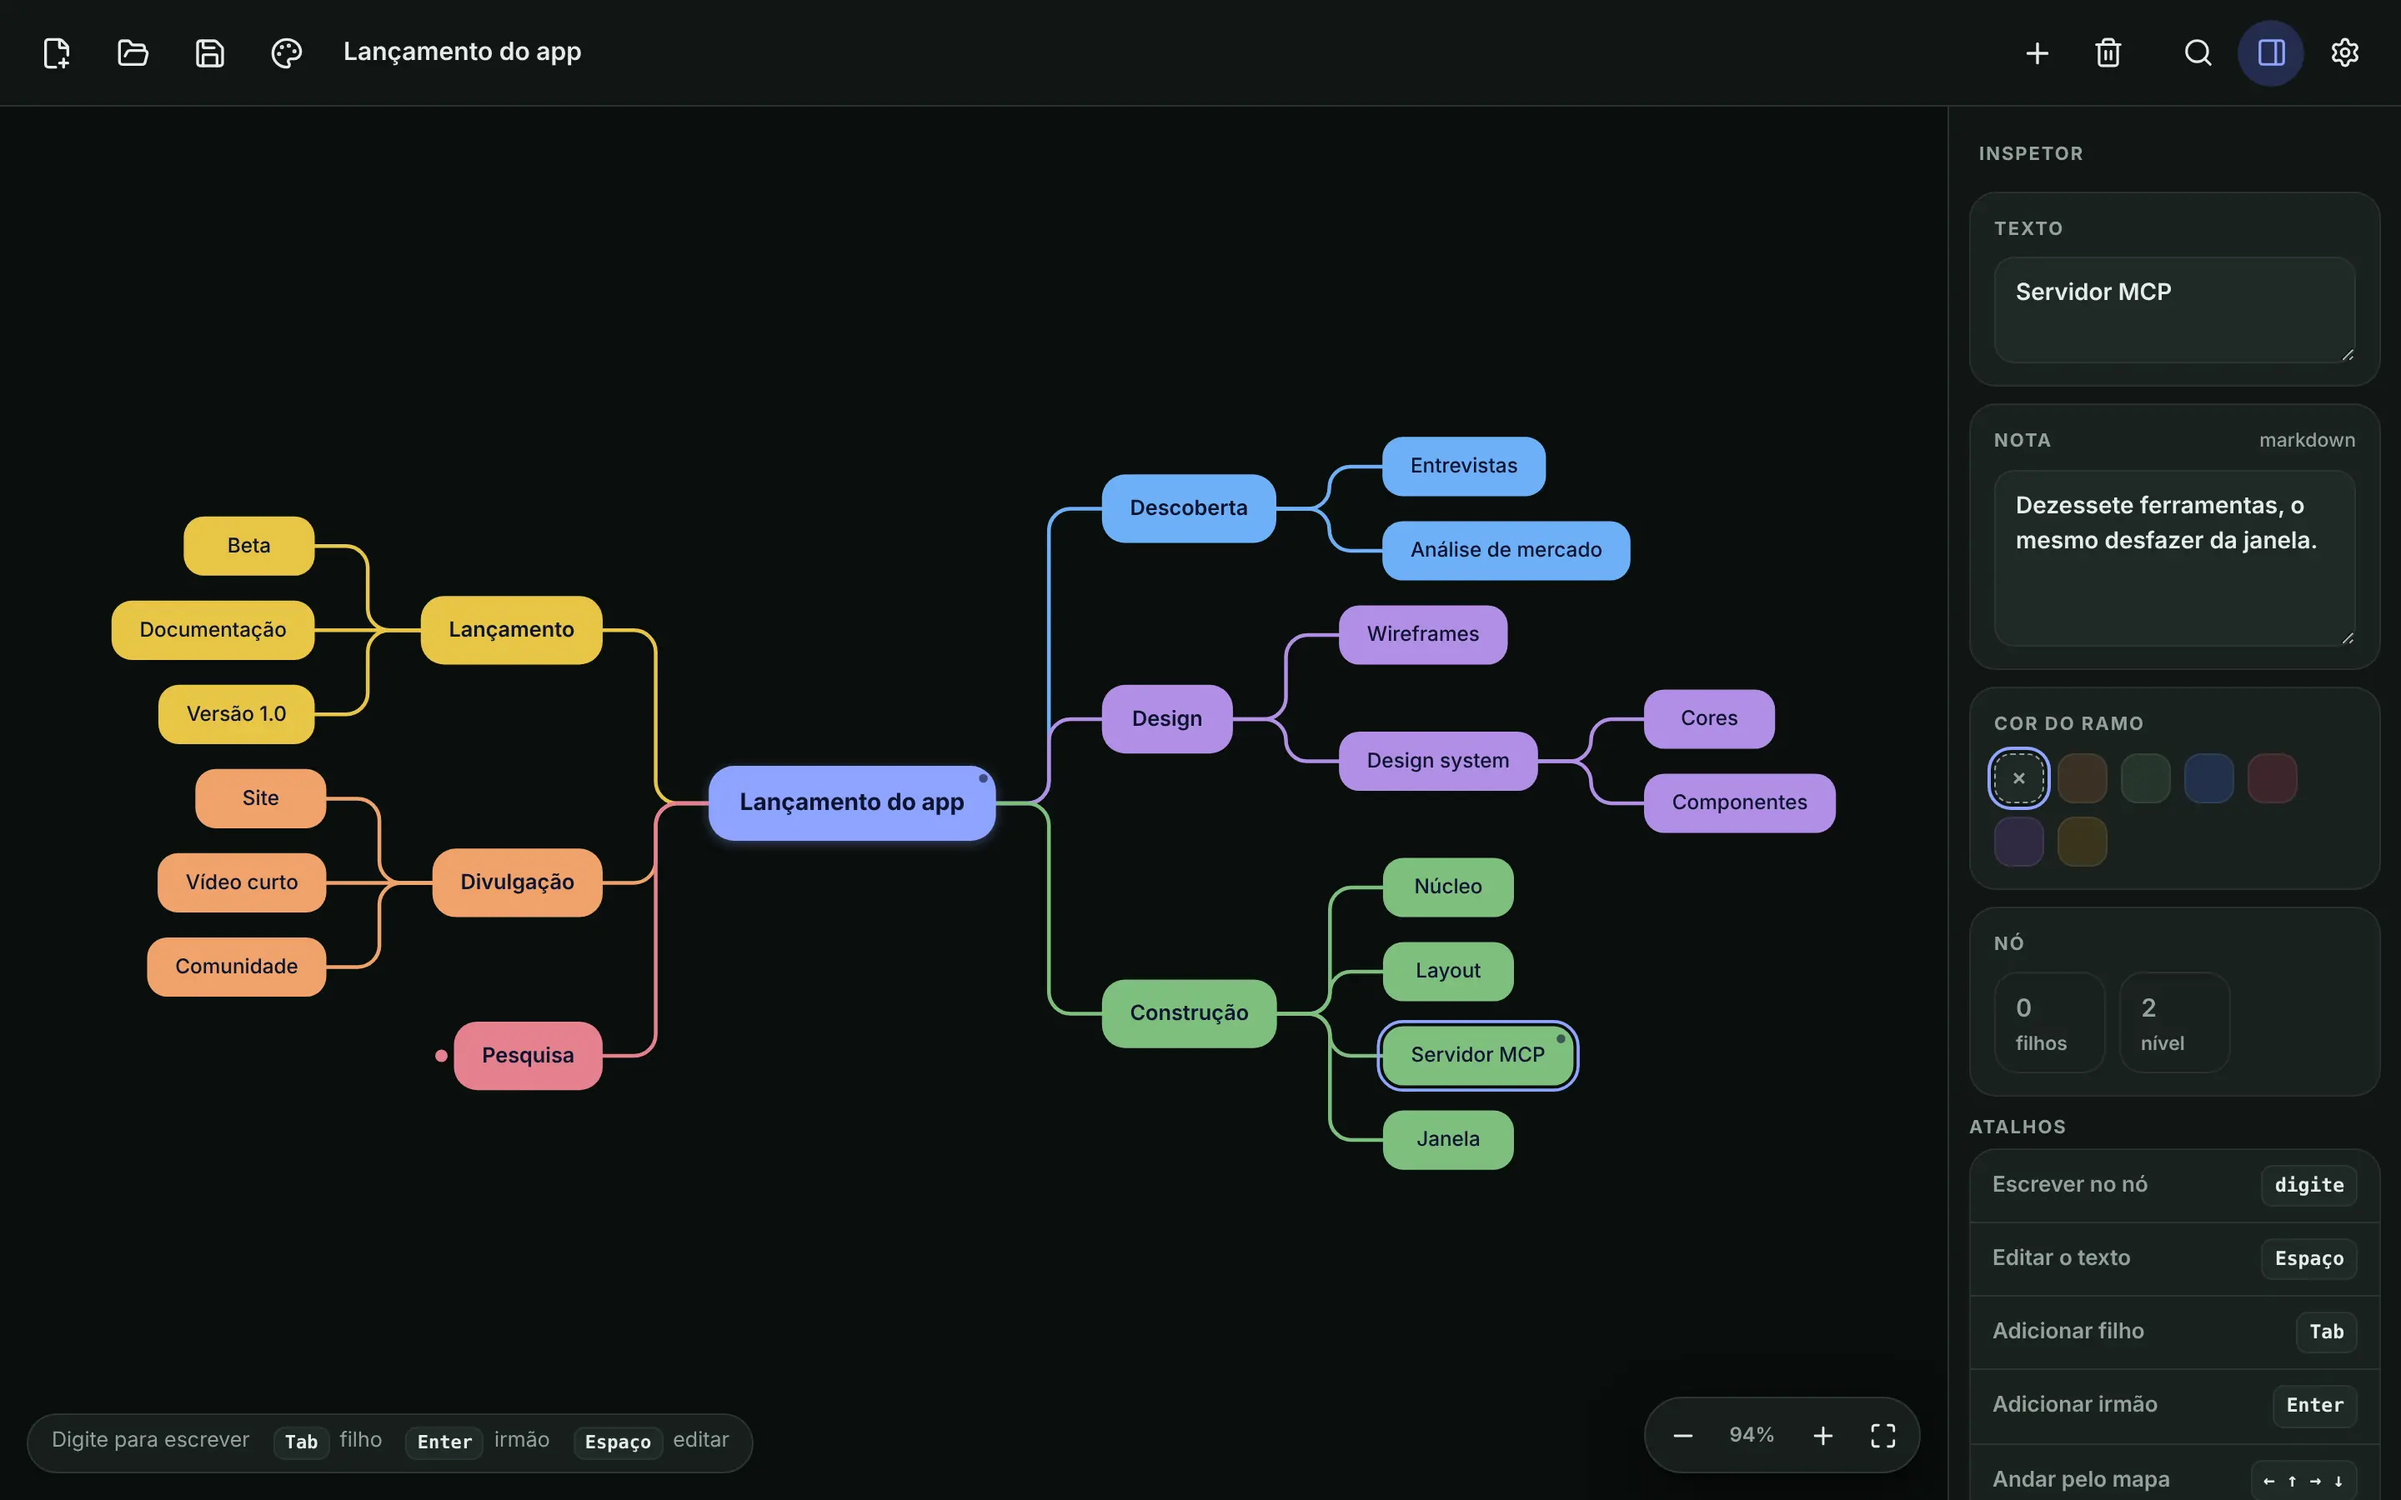
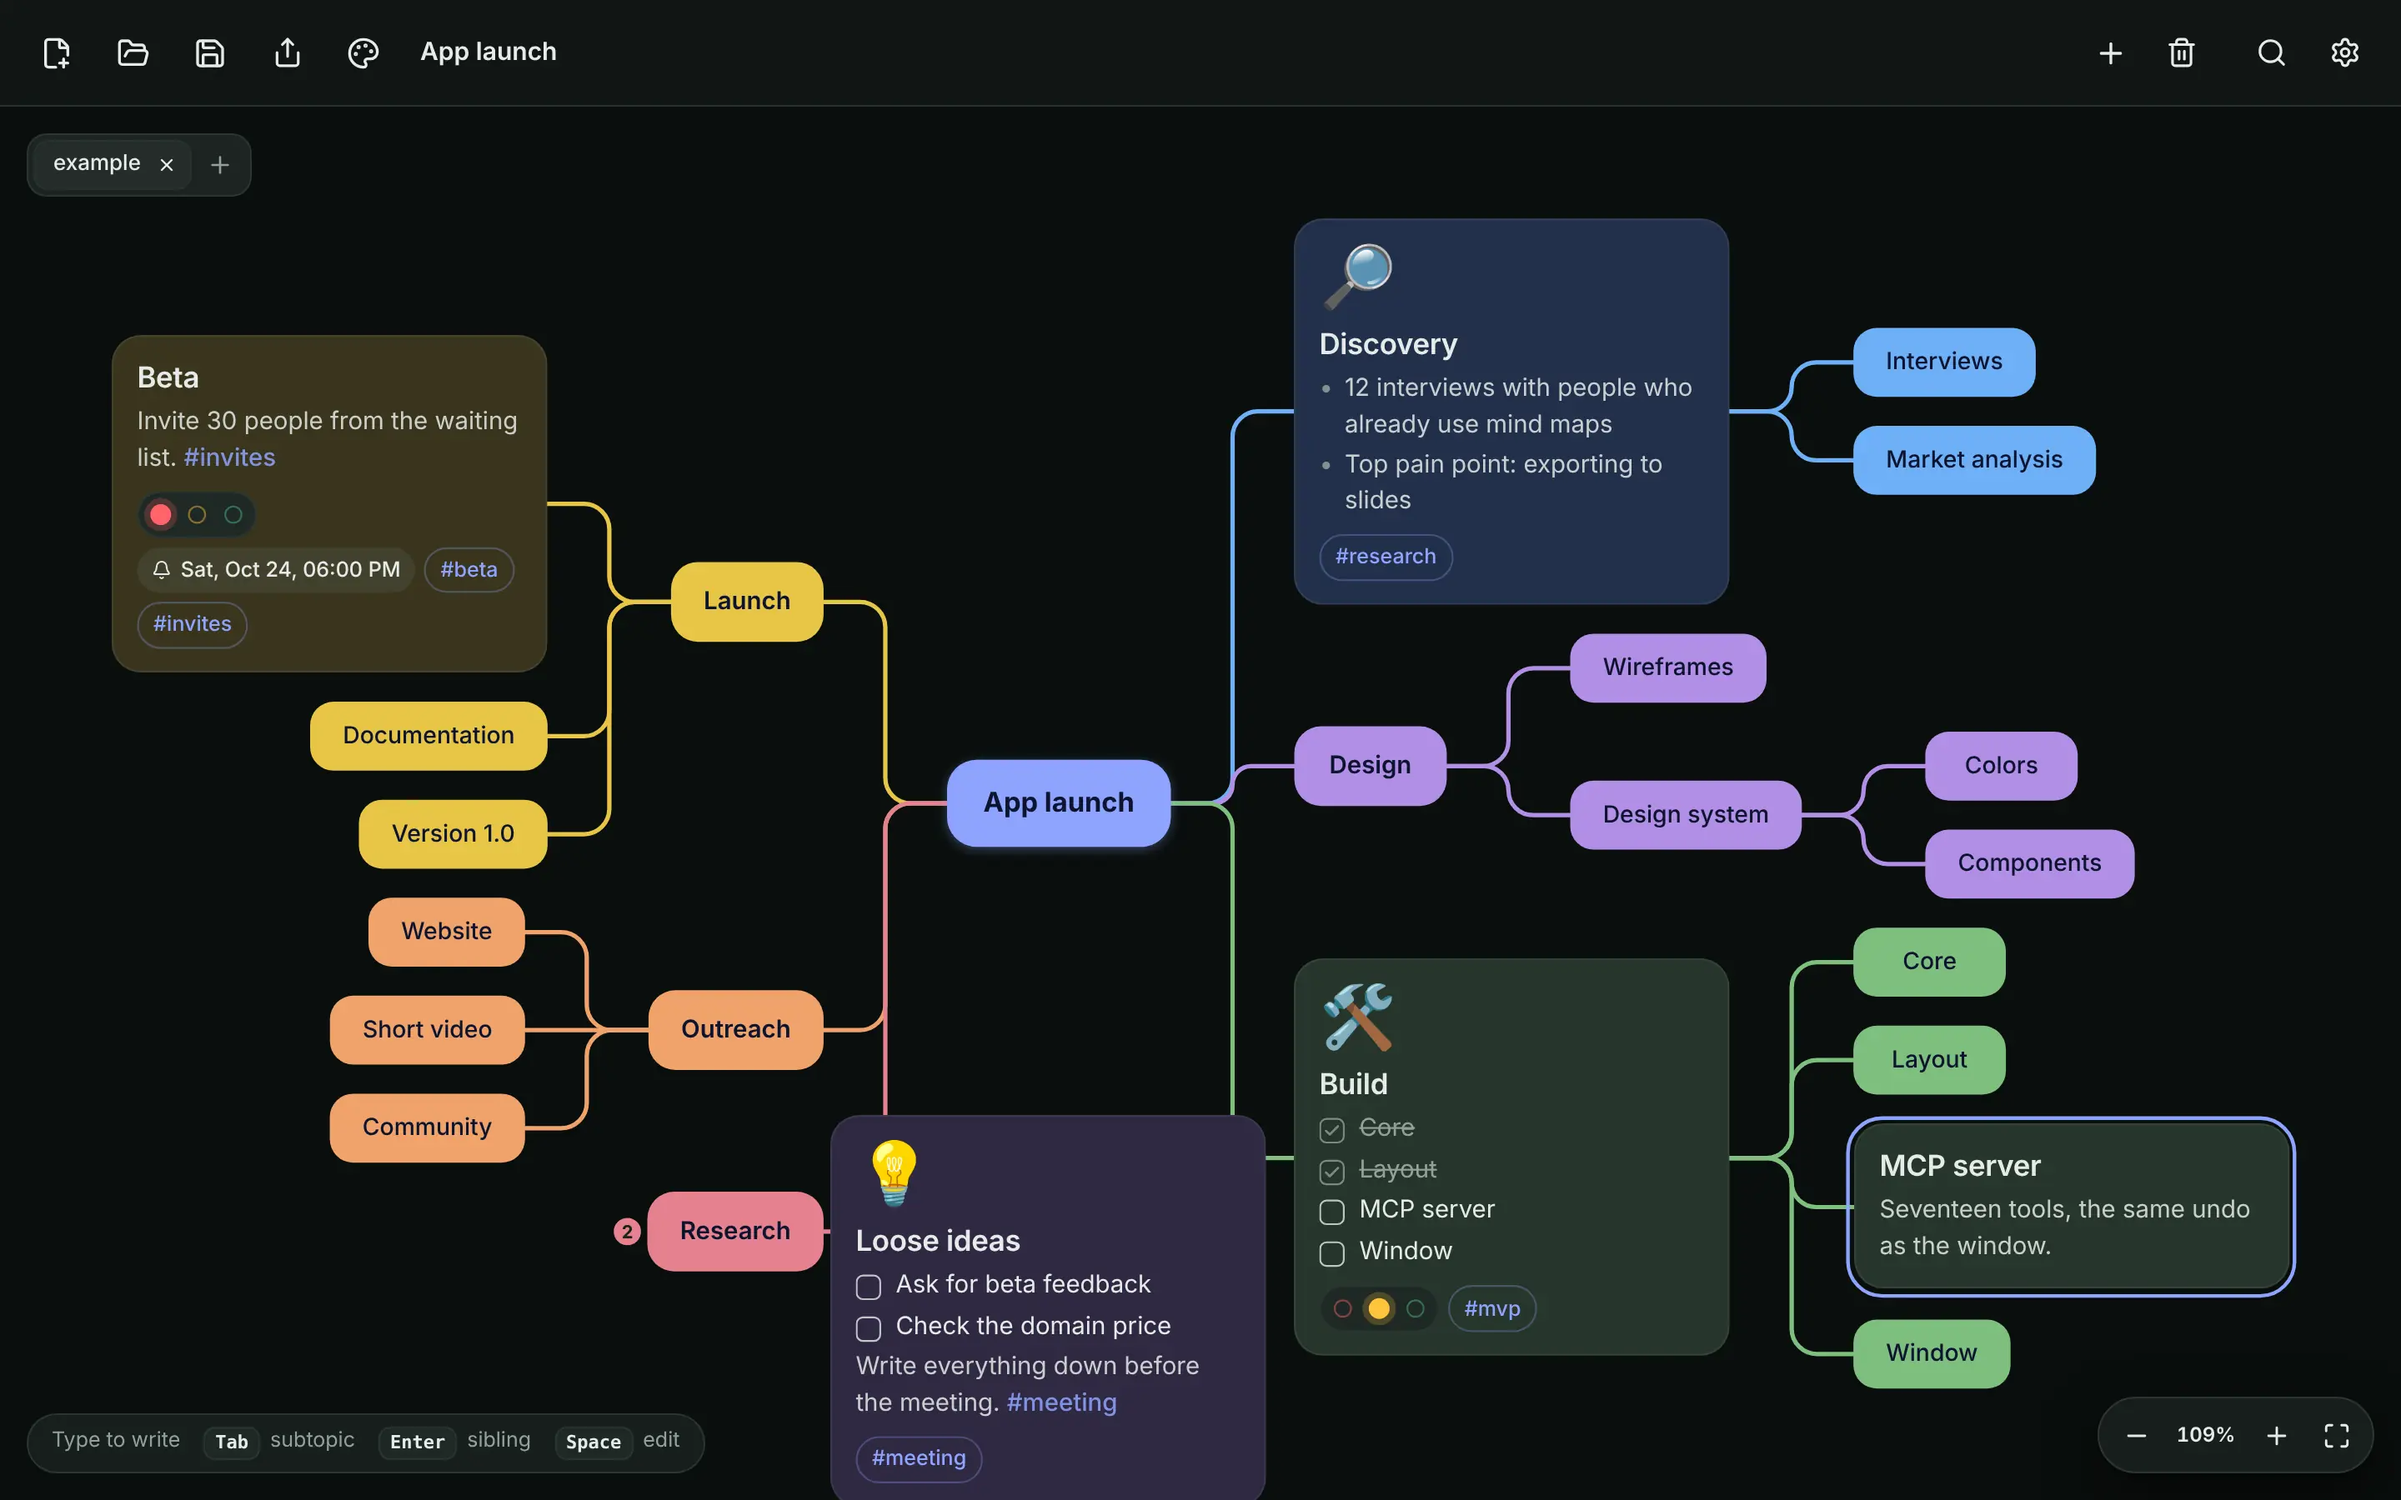
Site: prints atuais do Nodo na seção Do mesmo autor, em cada idioma
Claude-Session: https://claude.ai/code/session_01AzZnq8hfvPnh2DukMvcEkA

diff --git a/site/index.html b/site/index.html
@@ -340,7 +340,7 @@ sudo dnf install ideario</code></pre>
           <ul><li>Select and type: Tab adds a child, Enter a sibling</li><li>Six map themes, curved or angled branches</li><li>Imports and exports Markdown and OPML</li><li>Windows, macOS and Linux</li></ul>
           <a class="btn primary" href="https://nodo-1c7.pages.dev">Discover Nodo<svg class="lucide" viewBox="0 0 24 24" width="18" height="18" fill="none" stroke="currentColor" stroke-width="2" stroke-linecap="round" stroke-linejoin="round" aria-hidden="true"><path d="M5 12h14"/><path d="m12 5 7 7-7 7"/></svg></a>
         </div>
-        <div class="media"><picture><source srcset="/img/nodo-escuro.webp" media="(prefers-color-scheme: dark)"><img src="/img/nodo.webp" width="2880" height="1800" loading="lazy" alt="A mind map in Nodo: the central topic in the middle with colorful branches on both sides"></picture></div>
+        <div class="media"><picture><source srcset="/img/nodo-escuro.webp" media="(prefers-color-scheme: dark)"><img src="/img/nodo.webp" width="2880" height="1800" loading="lazy" alt="A mind map in Nodo: the central topic in the middle with colorful branches on both sides and topics shown as cards"></picture></div>
       </div>
     </div>
   </div>

diff --git a/site/pt/index.html b/site/pt/index.html
@@ -339,7 +339,7 @@ sudo dnf install ideario</code></pre>
           <ul><li>Selecione e digite: Tab cria um filho, Enter um irmão</li><li>Seis temas de mapa, ramos em curva ou em ângulo</li><li>Importa e exporta Markdown e OPML</li><li>Windows, macOS e Linux</li></ul>
           <a class="btn primary" href="https://nodo-1c7.pages.dev/pt/">Conhecer o Nodo<svg class="lucide" viewBox="0 0 24 24" width="18" height="18" fill="none" stroke="currentColor" stroke-width="2" stroke-linecap="round" stroke-linejoin="round" aria-hidden="true"><path d="M5 12h14"/><path d="m12 5 7 7-7 7"/></svg></a>
         </div>
-        <div class="media"><picture><source srcset="/img/nodo-escuro.webp" media="(prefers-color-scheme: dark)"><img src="/img/nodo.webp" width="2880" height="1800" loading="lazy" alt="Um mapa mental no Nodo: a raiz no centro e ramos coloridos dos dois lados"></picture></div>
+        <div class="media"><picture><source srcset="/img/pt/nodo-escuro.webp" media="(prefers-color-scheme: dark)"><img src="/img/pt/nodo.webp" width="2880" height="1800" loading="lazy" alt="Um mapa mental no Nodo: a raiz no centro e ramos coloridos dos dois lados, com os tópicos em cards"></picture></div>
       </div>
     </div>
   </div>
